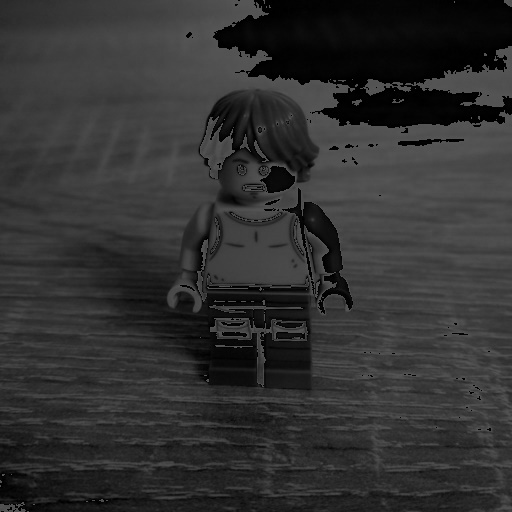
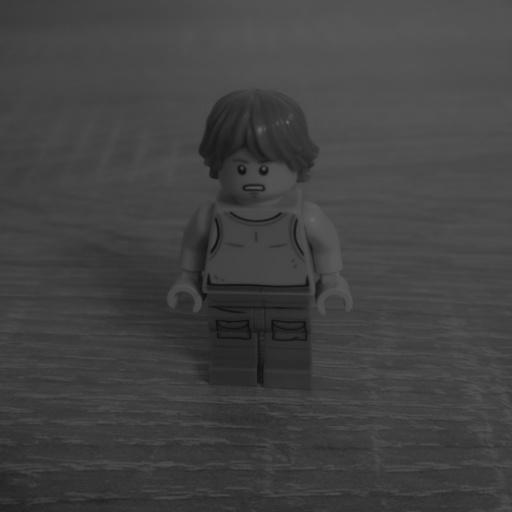
Cambios

diff --git a/Blanco.py b/Blanco.py
@@ -1,3 +1,6 @@
+import cv2
+import numpy as np
+
 def escala_grises(A):
     B = np.zeros([A.shape[0], A.shape[1]])
     for i in range(0, len(A)):
@@ -42,7 +45,7 @@ def padding(A):
 F = [[1, 1, 1],[1, 0, 1],[1, 1, 1]]
 img = cv2.imread("imagen.jpg")
 img = cv2.cvtColor(img,cv2.COLOR_BGR2RGB)
-img2 = escala_griess(img)
+img2 = escala_grises(img)
 cv2.imwrite("imagengris.jpg", img2)
 
 img_padding = padding(img2)
